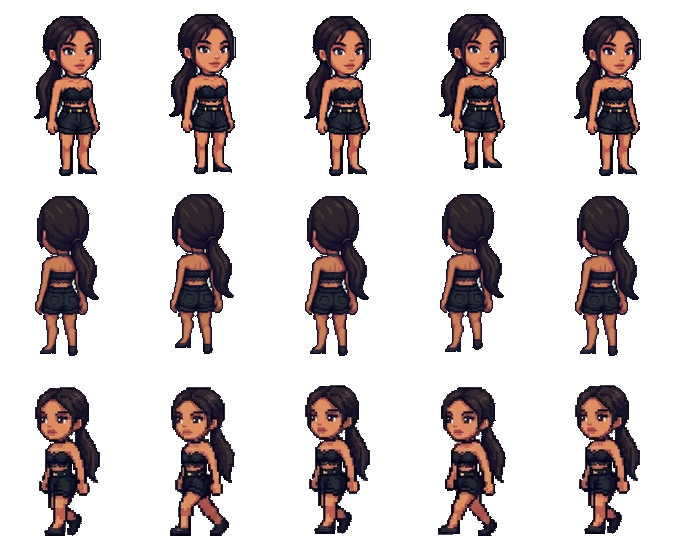
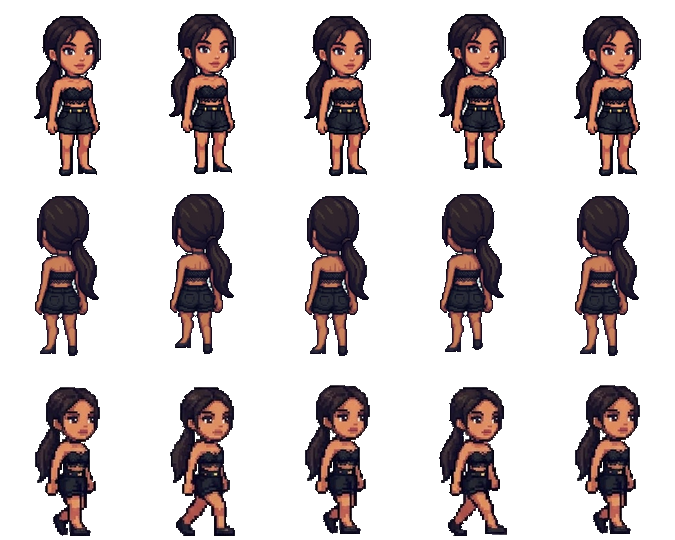
Fix Vanessa walking backwards and mini-bosses sticking in walls
- Vanessa's side-view walk frames faced left; the sheet's side row must face
  right (it's mirrored for walking left), so she walked backwards
- Mini-bosses keep their 1.5x look, but their body is capped at 15 px so it
  fits one-tile lanes (wall collision needs a radius under half a tile)
- A monster shoved inside a wall or past the edge is put back on the nearest
  floor tile

diff --git a/Chronicles-of-the-Spice-Trip/src/Play.cpp b/Chronicles-of-the-Spice-Trip/src/Play.cpp
@@ -1005,6 +1005,20 @@ void Game::updateEnemies(float dt, float slow) {
             }
         }
 
+        // Never left inside a wall or out past the edge: a shove that went too far puts it back on the nearest floor.
+        if (e.bossForm < 0 && roomWallSolid(room, (int)floorf(e.pos.x / TILE), (int)floorf(e.pos.y / TILE), false)) {
+            float best = 1e9f;
+            Vector2 back = e.pos;
+            for (int ty = 1; ty < ROOM_TH - 1; ++ty)
+                for (int tx = 1; tx < ROOM_TW - 1; ++tx) {
+                    if (roomWallSolid(room, tx, ty, false)) continue;
+                    Vector2 mid = { tx * (float)TILE + TILE / 2.0f, ty * (float)TILE + TILE / 2.0f };
+                    float dist = Vector2Distance(mid, e.pos);
+                    if (dist < best) { best = dist; back = mid; }
+                }
+            e.pos = back; e.knock = { 0, 0 };
+        }
+
         // An enemy that stops getting closer is jammed behind its friends in a narrow gap:
         // let it slip through them for a moment.
         if (d < e.bestDist - 8) { e.bestDist = d; e.stuckT = 0; }

diff --git a/Chronicles-of-the-Spice-Trip/src/Game.cpp b/Chronicles-of-the-Spice-Trip/src/Game.cpp
@@ -450,7 +450,9 @@ void Game::spawnElite() {
     spawnMonster(d.type, 1.0f + 0.15f * (floor - 1), 160);
     Enemy& e = enemies.back();
     e.name = d.name; e.elite = true;
-    e.hp = e.maxHp = e.maxHp * 4; e.dmg = (int)ceilf(e.dmg * 1.5f); e.xp *= 4; e.r *= 1.35f;
+    e.hp = e.maxHp = e.maxHp * 4; e.dmg = (int)ceilf(e.dmg * 1.5f); e.xp *= 4;
+    // drawn half as big again, but its body stays narrow enough for one-tile lanes (wall collision needs r < TILE / 2)
+    e.r = fminf(e.r * 1.35f, 15.0f);
     showBanner(d.name, "A champion of the depths guards this room", 2.4f);
 }
 
